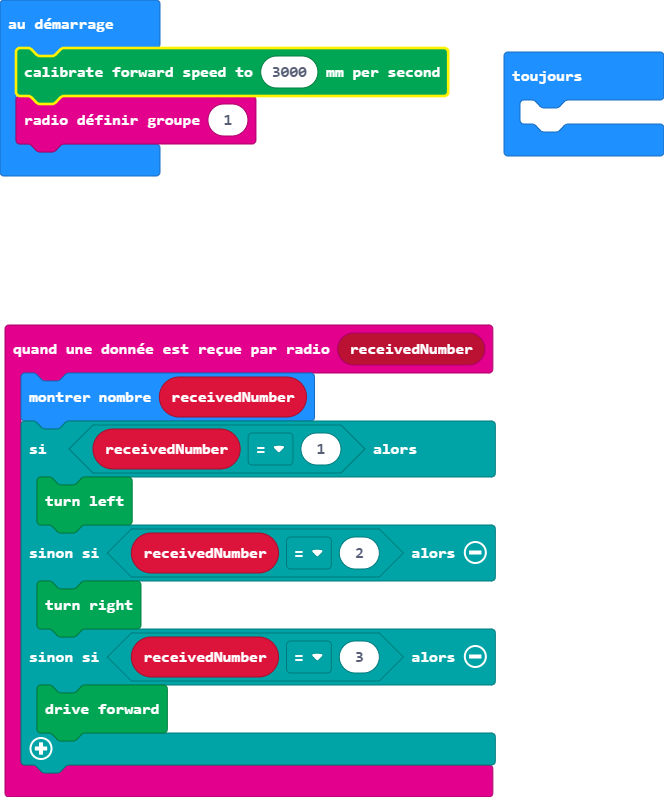
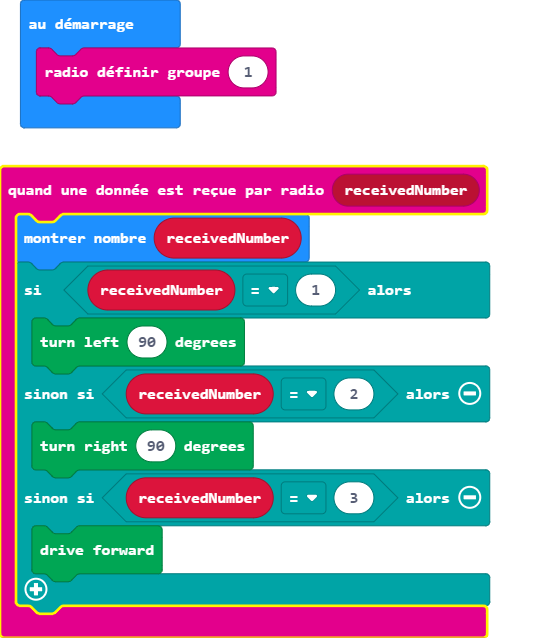
Mise à jour pxt.json, main.blocks, main.ts, main.py

diff --git a/main.ts b/main.ts
@@ -1,15 +1,11 @@
 radio.onReceivedNumber(function (receivedNumber) {
     basic.showNumber(receivedNumber)
     if (receivedNumber == 1) {
-        kitronik_servo_lite.left()
+        kitronik_servo_lite.turnLeft(90)
     } else if (receivedNumber == 2) {
-        kitronik_servo_lite.right()
+        kitronik_servo_lite.turnRight(90)
     } else if (receivedNumber == 3) {
         kitronik_servo_lite.forward()
     }
 })
-kitronik_servo_lite.setDistancePerSecond(3000)
 radio.setGroup(1)
-basic.forever(function () {
-	
-})

diff --git a/main.py b/main.py
@@ -1,0 +1,11 @@
+def on_received_number(receivedNumber):
+    basic.show_number(receivedNumber)
+    if receivedNumber == 1:
+        kitronik_servo_lite.turn_left(90)
+    elif receivedNumber == 2:
+        kitronik_servo_lite.turn_right(90)
+    elif receivedNumber == 3:
+        kitronik_servo_lite.forward()
+radio.on_received_number(on_received_number)
+
+radio.set_group(1)
